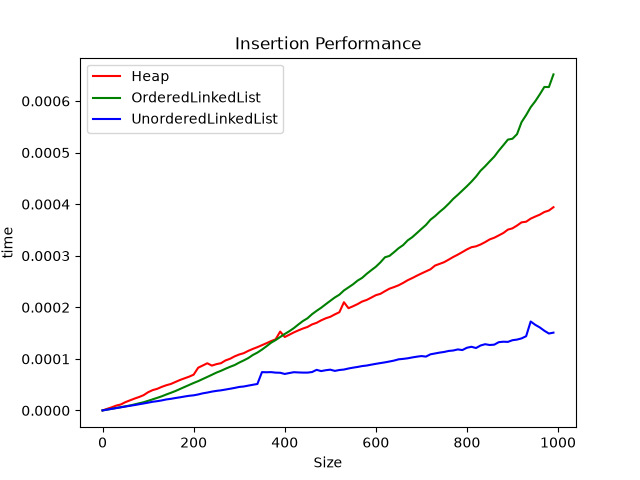
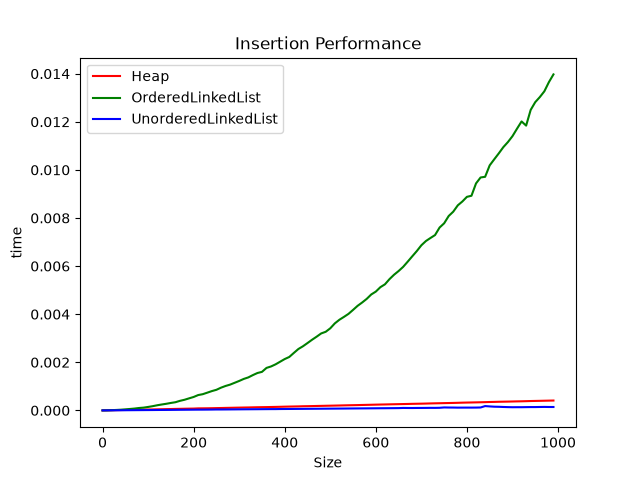
added testing for simple removal

diff --git a/PicchioniEs1LabAlg.py b/PicchioniEs1LabAlg.py
@@ -137,7 +137,7 @@ class LinkedList:
     # x is supposed to be data, not a Node
     def insert(self, x):
         new_node = Node(x, self, None)
-        if self.head is None and self.tail is None:
+        if self.head is None:
             self.head = new_node
         else:
             self.tail.set_next(new_node)
@@ -267,7 +267,13 @@ class OrderedLinkedList:
                 return
             else:
                 previous = node
-                node = node.get_next()
+                if node.get_next() is None:
+                    new_node = Node(x, self, None)
+                    node.set_next(new_node)
+                    return
+                else:
+                    node = node.next
+        print("error: no matching item to remove was found")
 
     def remove(self, x):
         if self.head is None:
@@ -357,9 +363,8 @@ interval_end = 3000
 number_of_repeats = 20
 inputs = random.sample(range(interval_end), number_of_elements)
 
-# Insertion portion
 
-
+# Section for insert()
 time = []
 print("heap before")
 measure_insert_time(Heap, inputs, time, len(inputs), number_of_repeats)
@@ -387,15 +392,13 @@ plt.savefig("insertion_performance.png")
 # clears previous graph
 plt.clf()
 
-# Remove_Max portion
 
+# Section for remove_max()
 time = []
 for k in range(0, len(inputs), 10):
     best = inf
     for _ in range(number_of_repeats):
-        max_heap = Heap(inputs)
-        for i in inputs[:k]:
-            max_heap.insert(k)
+        max_heap = Heap(inputs[:k])
         start = timer()
         for _ in range(k):
             max_heap.remove_max()
@@ -410,12 +413,12 @@ time = []
 for k in range(0, len(inputs), 10):
     best = inf
     for _ in range(number_of_repeats):
-        max_heap = LinkedList()
+        linked_list = LinkedList()
         for i in inputs[:k]:
-            max_heap.insert(k)
+            linked_list.insert(k)
         start = timer()
         for _ in range(k):
-            max_heap.remove_max()
+            linked_list.remove_max()
         end = timer()
         best = min(best, end - start)
     if k % 100 == 0:
@@ -427,10 +430,12 @@ time = []
 for k in range(0, len(inputs), 10):
     best = inf
     for _ in range(number_of_repeats):
-        max_heap = OrderedLinkedList()
+        ordered_linked_list = OrderedLinkedList()
+        for i in inputs[:k]:
+            ordered_linked_list.insert(k)
         start = timer()
         for _ in range(k):
-            max_heap.remove_max()
+            ordered_linked_list.remove_max()
         end = timer()
         best = min(best, end - start)
     if k % 100 == 0:
@@ -442,5 +447,66 @@ plt.title("Remove_Max Performance")
 plt.xlabel("Size")
 plt.ylabel("time")
 plt.legend(loc="upper left")
-plt.tight_layout()
 plt.savefig("remove_max_performance.png")
+# clears previous graph
+plt.clf()
+
+
+# Section for remove()
+time = []
+for k in range(0, len(inputs), 10):
+    best = inf
+    to_remove = random.sample(inputs[:k], k)
+    for _ in range(number_of_repeats):
+        max_heap = Heap(inputs[:k])
+        start = timer()
+        for i in range(k):
+            max_heap.remove(to_remove[i])
+        end = timer()
+        best = min(best, end - start)
+    if k % 100 == 0:
+        print(k)
+    time.append(best)
+plt.plot(number_of_operation, time, "r", label="Heap")
+
+time = []
+for k in range(0, len(inputs), 10):
+    best = inf
+    to_remove = random.sample(inputs[:k], k)
+    for _ in range(number_of_repeats):
+        linked_list = LinkedList()
+        for input in inputs[:k]:
+            linked_list.insert(input)
+        start = timer()
+        for i in range(k):
+            linked_list.remove(to_remove[i])
+        end = timer()
+        best = min(best, end - start)
+    if k % 100 == 0:
+        print(k)
+    time.append(best)
+plt.plot(number_of_operation, time, "b", label="UnorderedLinkedList")
+
+time = []
+for k in range(0, len(inputs), 10):
+    best = inf
+    to_remove = random.sample(inputs[:k], k)
+    for _ in range(number_of_repeats):
+        ordered_linked_list = OrderedLinkedList()
+        for input in inputs[:k]:
+            ordered_linked_list.insert(input)
+        start = timer()
+        for i in range(k):
+            ordered_linked_list.remove(to_remove[i])
+        end = timer()
+        best = min(best, end - start)
+    if k % 100 == 0:
+        print(k)
+    time.append(best)
+plt.plot(number_of_operation, time, "g", label="OrderedLinkedList")
+
+plt.title("Remove Performance")
+plt.xlabel("Size")
+plt.ylabel("time")
+plt.legend(loc="upper left")
+plt.savefig("remove_performance.png")
